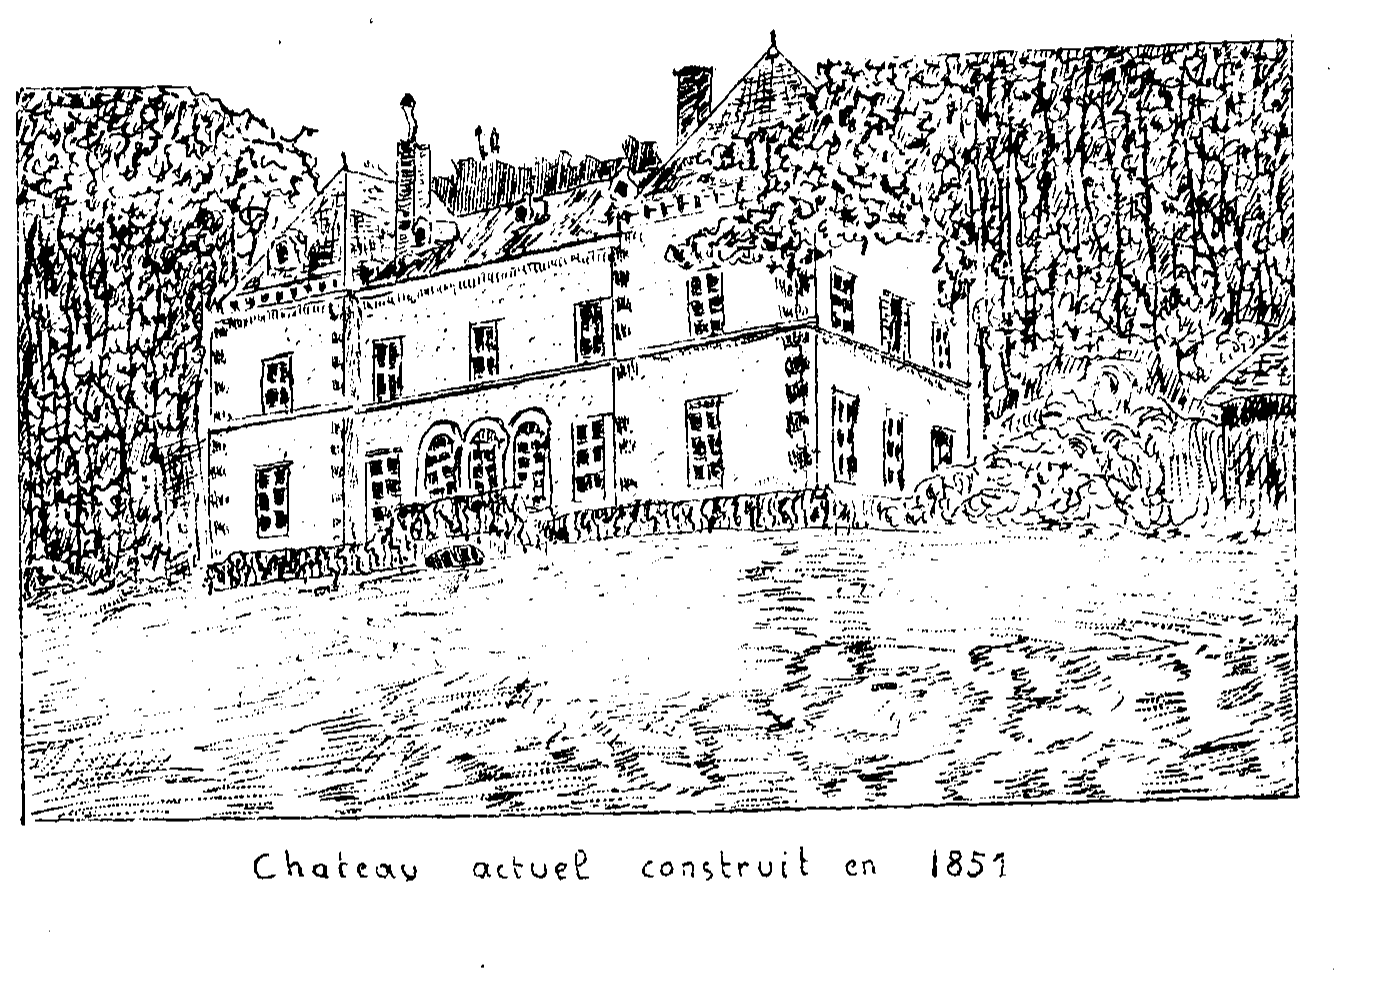
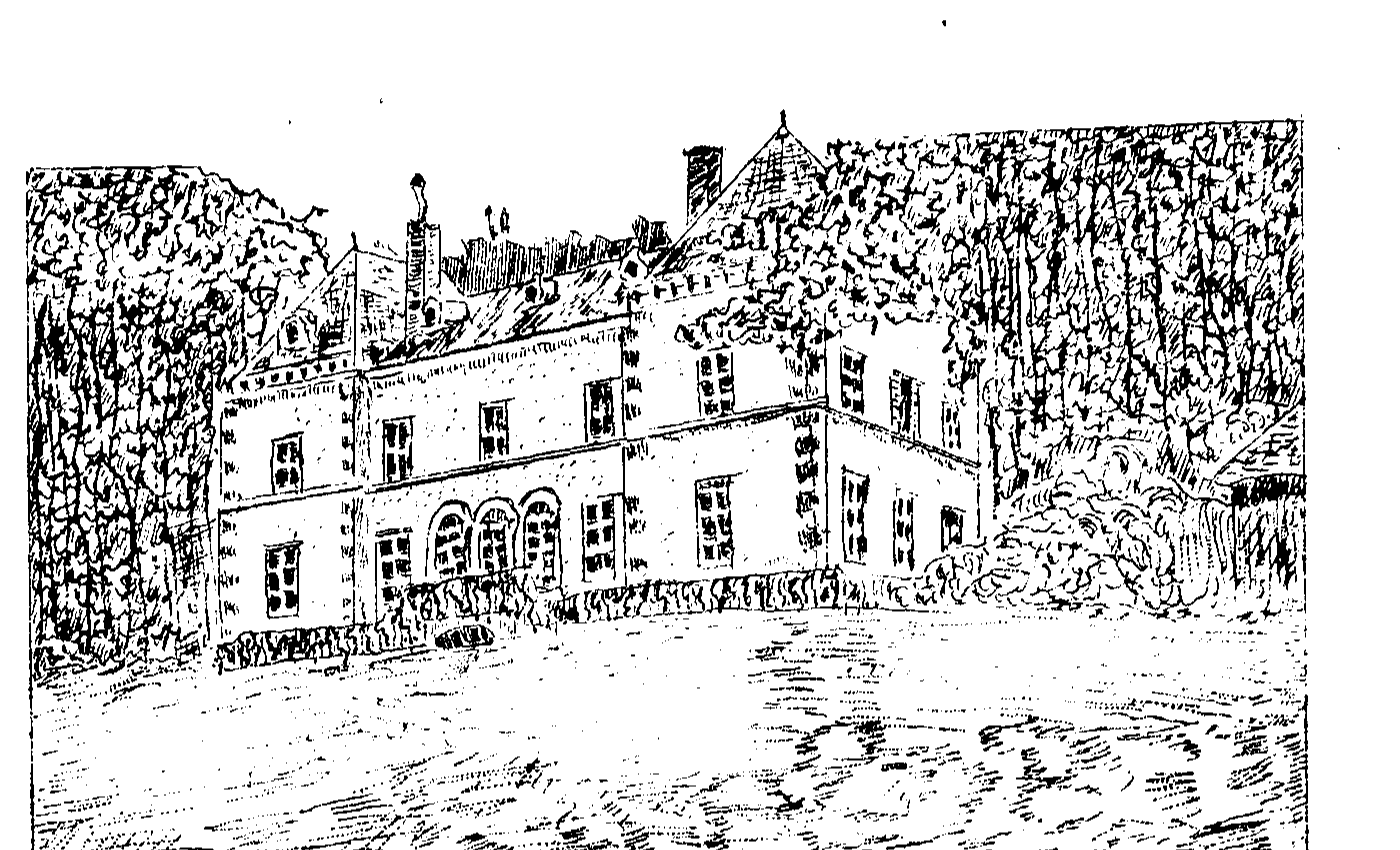
fix: intégrer les illustrations du chapitre Grosbois

diff --git a/Chapitres/12-grosbois.tex b/Chapitres/12-grosbois.tex
@@ -5,7 +5,11 @@
 \chapter{Grosbois}
 
 % --- Page imprimée 62 — vue 65
-\begin{center}\textit{[Illustration : Chateau actuel construit en 1851]}\end{center}
+\begin{figure}[htbp]
+    \centering
+    \includegraphics[width=0.72\textwidth]{Illustrations/illus-grosbois-chateau.png}
+    \caption*{Château actuel construit en 1851}
+\end{figure}
 
 La terre de Gros-Bois fut érigée en fief en 1675 en faveur de Jean Chrysostôme de Grosbois, écuyer, seigneur de Rochetaillée, capitaine enseigne au régiment de Certirane.
 
@@ -43,7 +47,9 @@ Antoine Isidore Marie de la Roche mourut sans postérité. Avec lui s'éteignit 
 
 Armes de Grosbois
 
-\begin{center}\textit{[Illustration : De gueules, au lion d'or tenant de la patte dextre une épée d'argent. Devise : Mas que ostento c'est-à-dire : Plus que je n'en montre.]}\end{center}
+\begin{center}
+    \includegraphics[width=0.20\textwidth]{Illustrations/illus-grosbois-armoiries.png}
+\end{center}
 
 Grosbois appartient à la famille Berloty depuis 1842. François Félix Berloty, notaire à Lyon, avait acheté la plus grande partie du domaine et le château à MM. Solichon \& Pallaisson qui l'avaient acquis eux-mêmes un an auparavant de Monsieur de Lacarelle.
 
@@ -51,7 +57,11 @@ Cette propriété acquise en 1842 s'est augmentée petit à petit.
 Monsieur Berloty, en 1852, fit démolir l'ancien château, vieille maison sans grand caractère et construisit à la même place l'habitation actuelle. Il traça le jardin et fit planter une partie de la forêt. Il fut maire d'Ouroux comme l'ont été après lui son fils et son petit-fils.
 
 % --- Page imprimée 65 — vue 68
-\begin{center}\textit{[Illustration : Belle imposte en fer forgé surmontant la porte d'entrée au chateau de GrosBois.]}\end{center}
+\begin{figure}[htbp]
+    \centering
+    \includegraphics[width=0.72\textwidth]{Illustrations/illus-grosbois-imposte.png}
+    \caption*{Belle imposte en fer forgé surmontant la porte d'entrée au château de GrosBois.}
+\end{figure}
 
 En terminant ce travail sur les fiefs de notre paroisse nous ne saurions passer sous silence une tradition d'après laquelle un château aurait existé près de Thel, au lieu appelé aujourd'hui Brousselaye ou broussailles de Laye. Cette tradition recueillie par Monsieur Morétain a été admise sans conteste par Ogier dans la France par Cantons. Devons-nous l'accepter à notre tour ? N'a-t-elle pas été surtout propagée par la lecture de cet ouvrage qui, à son apparition, était dans toutes les mains ? Passons sous silence la destruction du manoir, l'ensevelissement du châtelain sous ses ruines, l'existence de trésors découverts par la baguette divinatoire. Nous avons connu l'auteur du récit fait à Monsieur Morétain ; sa bonne foi a pu être facilement surprise.
 
@@ -70,4 +80,8 @@ Devons-nous rejeter absolument la tradition ? Il est incontestable qu'autrefois 
 
 Quoiqu'il en soit aucun des titres anciens que nous avons pu consulter ne fait allusion à l'existence de ce château et aucune des preuves alléguées jusqu'à cette heure ne nous permet de donner une réponse affirmative.
 
-\begin{center}\textit{[Illustration : Chapiteau Roman historié . . . . . . dans une ferme du Thel.]}\end{center}
+\begin{figure}[htbp]
+    \centering
+    \includegraphics[width=0.42\textwidth]{Illustrations/illus-grosbois-chapiteau.png}
+    \caption*{Chapiteau roman historié dans une ferme du Thel.}
+\end{figure}
